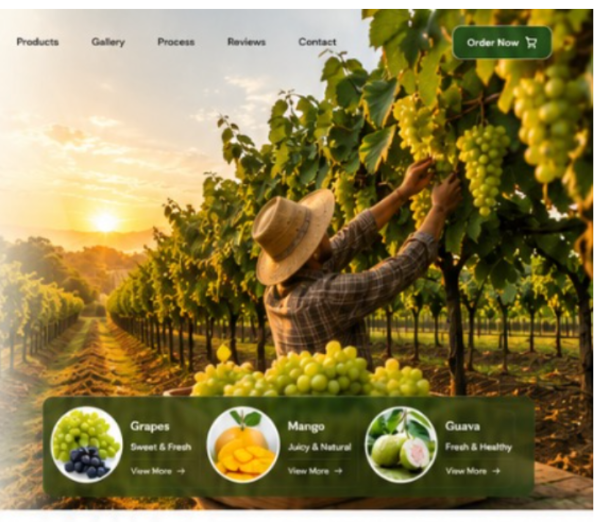
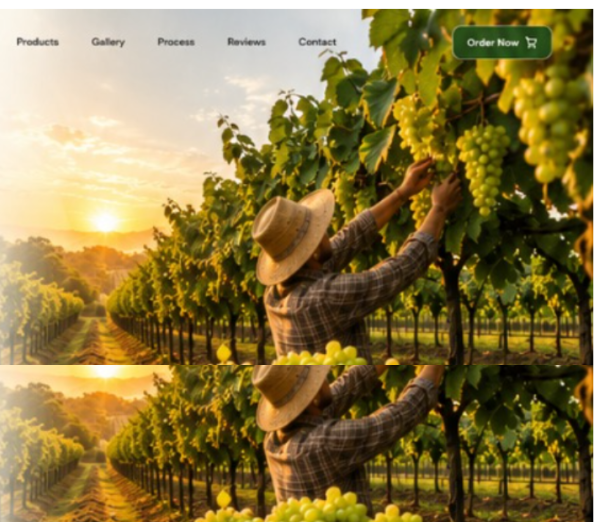
Render ultra-sharp crystal-clear React 3-fruits card on cleaned background

Changed region(s): [[0.0, 0.6743, 1.0, 1.0]]

diff --git a/src/components/Hero.jsx b/src/components/Hero.jsx
@@ -76,6 +76,44 @@ export const Hero = () => {
 
           <div className="deco-leaf">🍃</div>
         </div>
+
+        {/* Right Visual Floating Fruit Bar */}
+        <div className="hero-right-visual">
+          <div className="hero-floating-fruit-bar">
+            <a href="#products" className="ff-item ff-grapes">
+              <div className="ff-img-wrap grapes-wrap">
+                <img src="/grapes.png" alt="Grapes" />
+              </div>
+              <div className="ff-info">
+                <h4>{t('ff.grapesTitle')}</h4>
+                <p>{t('ff.grapesSub')}</p>
+                <span className="ff-link">{t('ff.viewMore')}</span>
+              </div>
+            </a>
+
+            <a href="#products" className="ff-item ff-mango">
+              <div className="ff-img-wrap mango-wrap">
+                <img src="/mango.png" alt="Mango" />
+              </div>
+              <div className="ff-info">
+                <h4>{t('ff.mangoTitle')}</h4>
+                <p>{t('ff.mangoSub')}</p>
+                <span className="ff-link">{t('ff.viewMore')}</span>
+              </div>
+            </a>
+
+            <a href="#products" className="ff-item ff-guava">
+              <div className="ff-img-wrap guava-wrap">
+                <img src="/guava.png" alt="Guava" />
+              </div>
+              <div className="ff-info">
+                <h4>{t('ff.guavaTitle')}</h4>
+                <p>{t('ff.guavaSub')}</p>
+                <span className="ff-link">{t('ff.viewMore')}</span>
+              </div>
+            </a>
+          </div>
+        </div>
       </div>
     </section>
   );
